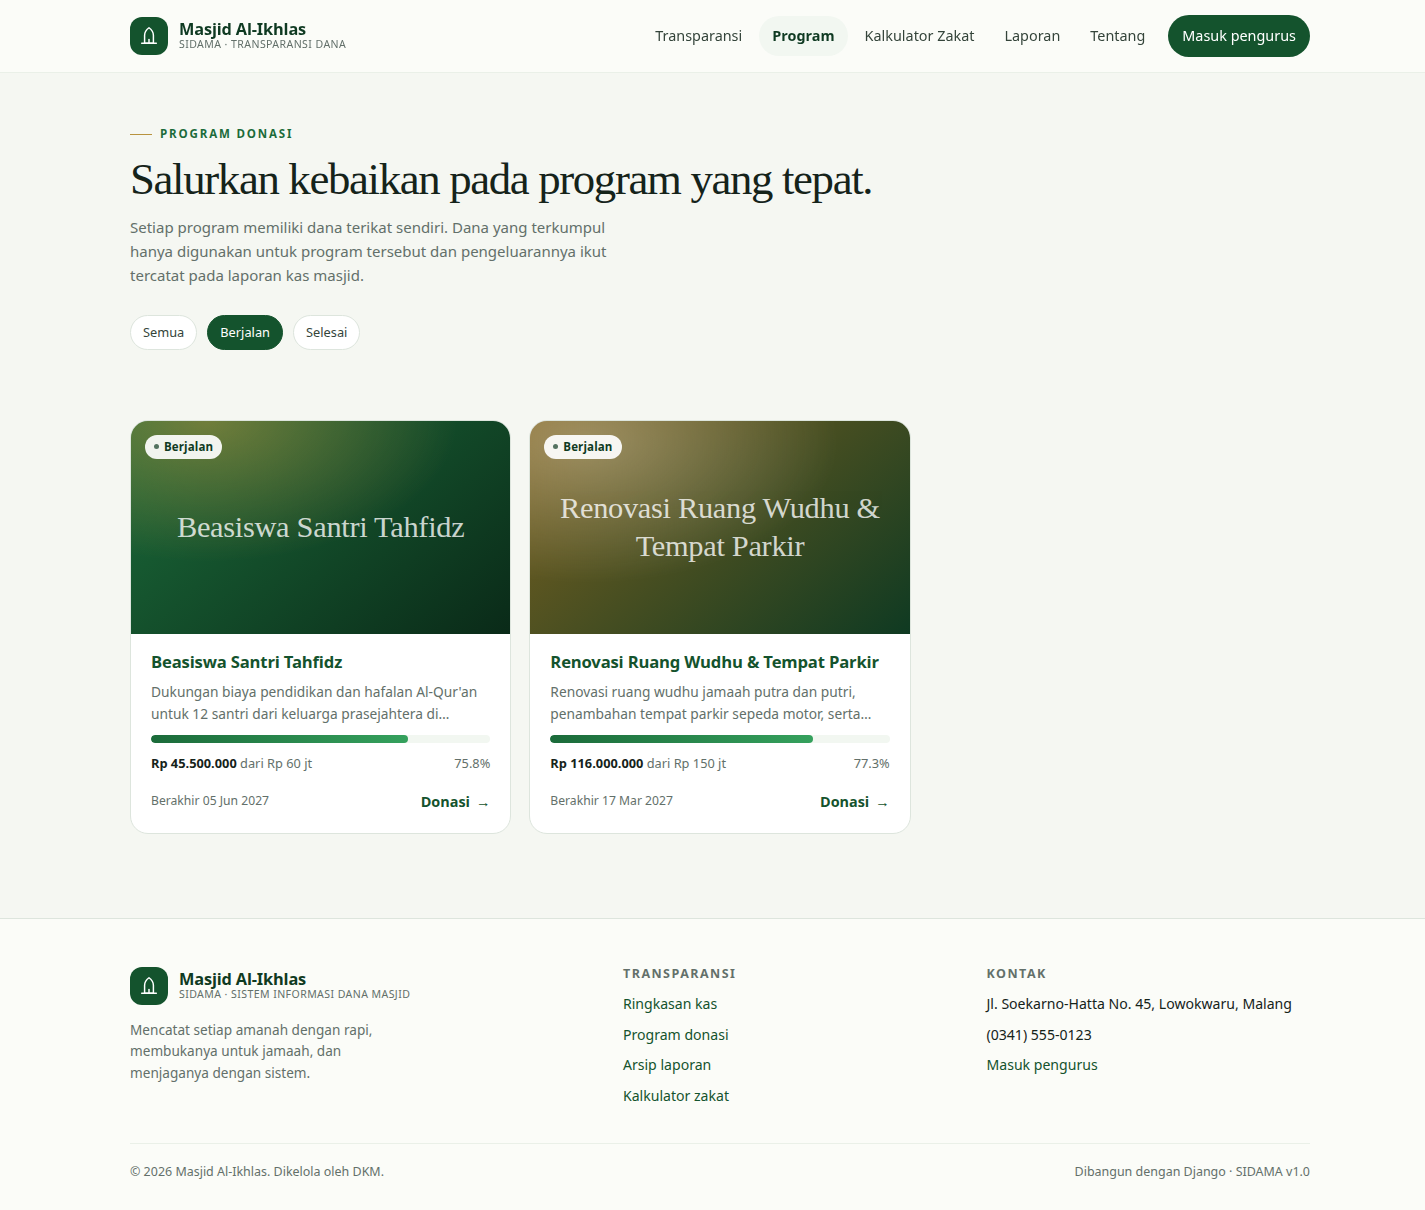
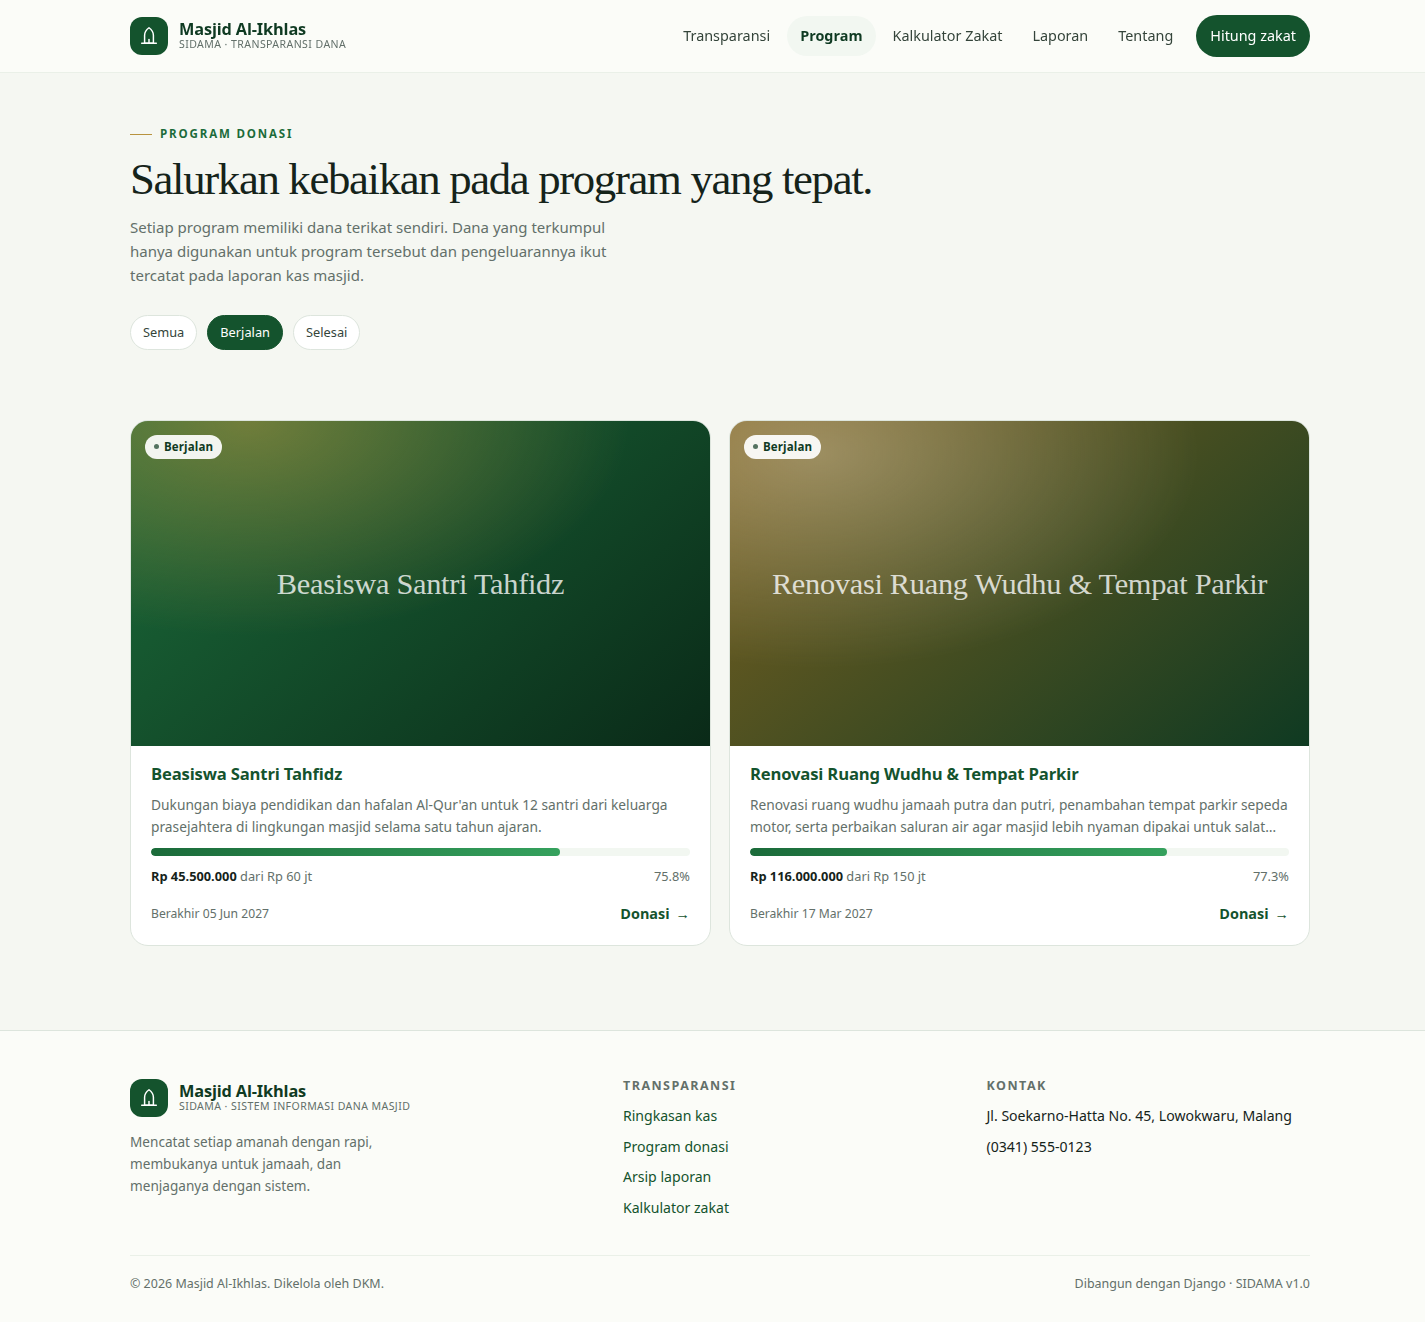
feat(deploy): public-only mode — dashboard, admin, dan API internal tidak dimount

diff --git a/templates/public/base_public.html b/templates/public/base_public.html
@@ -33,7 +33,9 @@
         <a href="{% url 'public:zakat' %}" {% if request.resolver_match.url_name == 'zakat' or request.resolver_match.url_name == 'zakat_calculator' %}class="is-active"{% endif %}>Kalkulator Zakat</a>
         <a href="{% url 'public:reports' %}" {% if request.resolver_match.url_name == 'reports' %}class="is-active"{% endif %}>Laporan</a>
         <a href="{% url 'public:about' %}" {% if request.resolver_match.url_name == 'about' %}class="is-active"{% endif %}>Tentang</a>
-        {% if user.is_authenticated %}
+        {% if public_only %}
+          <a class="btn btn-sm" href="{% url 'public:zakat' %}">Hitung zakat</a>
+        {% elif user.is_authenticated %}
           <a class="btn btn-sm" href="{% url 'core:dashboard' %}">Dashboard pengurus</a>
         {% else %}
           <a class="btn btn-sm" href="{% url 'accounts:login' %}">Masuk pengurus</a>
@@ -86,7 +88,9 @@
           <ul>
             <li>{{ mosque_address|default:"Alamat masjid" }}</li>
             <li>{{ mosque_phone|default:"Nomor telepon" }}</li>
-            <li><a href="{% url 'accounts:login' %}">Masuk pengurus</a></li>
+            {% if not public_only %}
+              <li><a href="{% url 'accounts:login' %}">Masuk pengurus</a></li>
+            {% endif %}
           </ul>
         </div>
       </div>

diff --git a/templates/public/program_detail.html b/templates/public/program_detail.html
@@ -142,7 +142,11 @@
             </label>
             <button class="btn btn-block" type="submit">Lanjutkan donasi</button>
             <p class="tiny muted text-center" style="margin:10px 0 0;">
-              Konfirmasi pembayaran dilakukan bendahara setelah dana masuk.
+              {% if public_only %}
+                Mode demo: donasi langsung tercatat agar progres program dapat dilihat.
+              {% else %}
+                Konfirmasi pembayaran dilakukan bendahara setelah dana masuk.
+              {% endif %}
             </p>
           </form>
         {% else %}

diff --git a/apps/api/urls.py b/apps/api/urls.py
@@ -1,30 +1,45 @@
-"""API routes."""
+"""API routes.
+
+In public-only mode only the anonymous endpoints are exposed: transparency
+summary, program listing/donation and the zakat calculator.
+"""
+from django.conf import settings
 from django.urls import include, path
 from drf_spectacular.views import SpectacularAPIView, SpectacularSwaggerView
 from rest_framework.routers import DefaultRouter
 
 from apps.api import views
 
-router = DefaultRouter()
-router.register("transactions", views.TransactionViewSet, basename="transaction")
-router.register("funds", views.FundViewSet, basename="fund")
-router.register("categories", views.CategoryViewSet, basename="category")
-router.register("programs", views.ProgramViewSet, basename="program")
-router.register("donations", views.DonationViewSet, basename="donation")
-router.register("zakat/receipts", views.ZakatReceiptViewSet, basename="zakat-receipt")
-router.register("zakat/muzakki", views.MuzakkiViewSet, basename="zakat-muzakki")
-router.register("zakat/mustahik", views.MustahikViewSet, basename="zakat-mustahik")
-router.register("zakat/distributions", views.ZakatDistributionViewSet,
-                basename="zakat-distribution")
-router.register("qurban/registrations", views.QurbanRegistrationViewSet,
-                basename="qurban-registration")
-router.register("qurban/distributions", views.MeatDistributionViewSet,
-                basename="qurban-distribution")
-router.register("assets", views.AssetViewSet, basename="asset")
-router.register("reports", views.ReportViewSet, basename="report")
-router.register("audit-logs", views.AuditLogViewSet, basename="audit-log")
+public_router = DefaultRouter()
+public_router.register("programs", views.ProgramViewSet, basename="program")
 
-urlpatterns = [
+internal_router = DefaultRouter()
+internal_router.register("transactions", views.TransactionViewSet, basename="transaction")
+internal_router.register("funds", views.FundViewSet, basename="fund")
+internal_router.register("categories", views.CategoryViewSet, basename="category")
+internal_router.register("programs", views.ProgramViewSet, basename="program")
+internal_router.register("donations", views.DonationViewSet, basename="donation")
+internal_router.register("zakat/receipts", views.ZakatReceiptViewSet, basename="zakat-receipt")
+internal_router.register("zakat/muzakki", views.MuzakkiViewSet, basename="zakat-muzakki")
+internal_router.register("zakat/mustahik", views.MustahikViewSet, basename="zakat-mustahik")
+internal_router.register("zakat/distributions", views.ZakatDistributionViewSet,
+                         basename="zakat-distribution")
+internal_router.register("qurban/registrations", views.QurbanRegistrationViewSet,
+                         basename="qurban-registration")
+internal_router.register("qurban/distributions", views.MeatDistributionViewSet,
+                         basename="qurban-distribution")
+internal_router.register("assets", views.AssetViewSet, basename="asset")
+internal_router.register("reports", views.ReportViewSet, basename="report")
+internal_router.register("audit-logs", views.AuditLogViewSet, basename="audit-log")
+
+public_urlpatterns = [
+    path("zakat/calculate/", views.ZakatCalculateView.as_view(),
+         name="api-zakat-calculate"),
+    path("public/summary/", views.PublicSummaryView.as_view(), name="api-public-summary"),
+    path("", include(public_router.urls)),
+]
+
+internal_urlpatterns = [
     path("auth/login/", views.LoginView.as_view(), name="api-login"),
     path("auth/me/", views.MeView.as_view(), name="api-me"),
     path("zakat/calculate/", views.ZakatCalculateView.as_view(),
@@ -34,5 +49,7 @@ urlpatterns = [
     path("schema/", SpectacularAPIView.as_view(), name="api-schema"),
     path("docs/", SpectacularSwaggerView.as_view(url_name="api-schema"),
          name="api-docs"),
-    path("", include(router.urls)),
+    path("", include(internal_router.urls)),
 ]
+
+urlpatterns = public_urlpatterns if settings.PUBLIC_ONLY else internal_urlpatterns

diff --git a/tests/test_public_api.py b/tests/test_public_api.py
@@ -3,11 +3,12 @@ from __future__ import annotations
 
 from decimal import Decimal
 
+from django.test import override_settings
 from django.urls import reverse
 from django.utils import timezone
 
 from apps.finance.models import Transaction
-from apps.programs.models import Program
+from apps.programs.models import Donation, Program
 from tests.base import BaseTestCase
 
 
@@ -117,3 +118,51 @@ class ApiTests(BaseTestCase):
         token = self.login_token("donatur")
         response = self.client.get("/api/transactions/", HTTP_AUTHORIZATION=f"Token {token}")
         self.assertEqual(response.status_code, 403)
+
+
+class PublicOnlyModeTests(BaseTestCase):
+    """SIDAMA_PUBLIC_ONLY hides the internal app from jamaah-facing pages."""
+
+    def setUp(self):
+        self.program = Program.objects.create(
+            title="Renovasi Serambi", description="Perluasan serambi masjid.",
+            target_amount=Decimal("10000000"), start_date=timezone.localdate(),
+            status=Program.Status.ACTIVE, is_published=True,
+        )
+
+    def test_login_link_hidden_in_public_only_mode(self):
+        with override_settings(PUBLIC_ONLY=True):
+            response = self.client.get(reverse("public:home"))
+        self.assertTrue(response.context["public_only"])
+        self.assertNotContains(response, "Masuk pengurus")
+        self.assertNotContains(response, "Dashboard pengurus")
+
+    def test_login_link_present_in_full_mode(self):
+        response = self.client.get(reverse("public:home"))
+        self.assertFalse(response.context["public_only"])
+        self.assertContains(response, "Masuk pengurus")
+
+    def test_demo_auto_confirm_records_donation_immediately(self):
+        with override_settings(DEMO_AUTO_CONFIRM=True):
+            response = self.client.post(
+                reverse("public:donate", args=[self.program.slug]),
+                {"donor_name": "Jamaah Uji", "amount": "250000",
+                 "method": Donation.Method.QRIS, "message": "Berkah"},
+            )
+        donation = Donation.objects.get(donor_name="Jamaah Uji")
+        self.assertRedirects(response, reverse("public:donation_status",
+                                               args=[donation.code]))
+        self.assertEqual(donation.status, Donation.Status.CONFIRMED)
+        self.assertIsNotNone(donation.transaction_id)
+        self.assertEqual(self.program.collected, Decimal("250000"))
+
+    def test_donation_stays_pending_without_demo_mode(self):
+        self.client.post(
+            reverse("public:donate", args=[self.program.slug]),
+            {"donor_name": "Jamaah Biasa", "amount": "150000",
+             "method": Donation.Method.TRANSFER},
+        )
+        donation = Donation.objects.get(donor_name="Jamaah Biasa")
+        self.assertEqual(donation.status, Donation.Status.PENDING)
+        self.assertIsNone(donation.transaction_id)
+

diff --git a/apps/public/views.py b/apps/public/views.py
@@ -2,6 +2,7 @@
 from __future__ import annotations
 
 from django import forms
+from django.conf import settings
 from django.contrib import messages
 from django.core.cache import cache
 from django.db.models import Sum
@@ -15,7 +16,7 @@ from apps.finance.models import Transaction
 from apps.finance.services import expense_by_category, fund_balances, month_totals, monthly_series
 from apps.programs.forms import PublicDonationForm
 from apps.programs.models import Donation, Program
-from apps.programs.services import create_donation
+from apps.programs.services import confirm_donation, create_donation
 from apps.reports.models import Report
 from apps.zakat.services import calculate_zakat, zakat_summary
 
@@ -155,10 +156,18 @@ def donate(request, slug):
         contact=form.cleaned_data["contact"],
         donor_user=request.user,
     )
-    messages.success(
-        request,
-        f"Donasi {donation.code} dicatat. Silakan selesaikan pembayaran sesuai instruksi.",
-    )
+    if getattr(settings, "DEMO_AUTO_CONFIRM", False):
+        confirm_donation(donation, None)
+        messages.success(
+            request,
+            f"Donasi {donation.code} diterima dan langsung tercatat pada program. "
+            "Terima kasih atas donasi Anda.",
+        )
+    else:
+        messages.success(
+            request,
+            f"Donasi {donation.code} dicatat. Silakan selesaikan pembayaran sesuai instruksi.",
+        )
     return redirect("public:donation_status", code=donation.code)
 
 

diff --git a/config/urls.py b/config/urls.py
@@ -1,4 +1,9 @@
-"""Root URL configuration."""
+"""Root URL configuration.
+
+When ``SIDAMA_PUBLIC_ONLY=1`` only the jamaah-facing transparency site is mounted:
+the internal dashboard, Django admin and authenticated API routes are not
+registered at all, so they return 404 instead of a login wall.
+"""
 from django.conf import settings
 from django.conf.urls.static import static
 from django.contrib import admin
@@ -6,9 +11,15 @@ from django.urls import include, path
 
 from apps.core.views import healthcheck
 
-urlpatterns = [
-    path("admin/", admin.site.urls),
+public_patterns = [
     path("healthz/", healthcheck, name="healthcheck"),
+    path("api/", include("apps.api.urls")),
+    path("", include("apps.public.urls")),
+]
+
+internal_patterns = [
+    path("healthz/", healthcheck, name="healthcheck"),
+    path("admin/", admin.site.urls),
     path("api/", include("apps.api.urls")),
     path("", include("apps.accounts.urls")),
     path("", include("apps.core.urls")),
@@ -23,6 +34,8 @@ urlpatterns = [
     path("", include("apps.forecasting.urls")),
     path("", include("apps.public.urls")),
 ]
+
+urlpatterns = public_patterns if settings.PUBLIC_ONLY else internal_patterns
 
 if settings.DEBUG:
     urlpatterns += static(settings.MEDIA_URL, document_root=settings.MEDIA_ROOT)

diff --git a/apps/core/context_processors.py b/apps/core/context_processors.py
@@ -5,12 +5,17 @@ from apps.core.models import Setting
 
 
 def sidama_context(request):
+    from django.conf import settings
+
     context = {
         "mosque_name": Setting.get("mosque_name"),
         "mosque_city": Setting.get("mosque_city"),
         "mosque_address": Setting.get("mosque_address"),
         "mosque_phone": Setting.get("mosque_phone"),
+        "public_only": getattr(settings, "PUBLIC_ONLY", False),
     }
+    if context["public_only"]:
+        return context
     user = getattr(request, "user", None)
     if user is not None and user.is_authenticated:
         from apps.finance.services import pending_count

diff --git a/config/settings.py b/config/settings.py
@@ -23,6 +23,14 @@ def env_list(key: str, default: str = "") -> list[str]:
 
 DEBUG = env_bool("DJANGO_DEBUG", True)
 
+# Public-only deployment: expose the jamaah-facing transparency site only.
+# Internal dashboard, admin and authenticated API routes are not mounted at all.
+PUBLIC_ONLY = env_bool("SIDAMA_PUBLIC_ONLY", False)
+
+# In the public demo nobody can log in to confirm donations, so confirm them
+# on submit. Set SIDAMA_DEMO_AUTO_CONFIRM=0 for a real masjid deployment.
+DEMO_AUTO_CONFIRM = env_bool("SIDAMA_DEMO_AUTO_CONFIRM", PUBLIC_ONLY)
+
 SECRET_KEY = os.getenv("DJANGO_SECRET_KEY", "")
 if not SECRET_KEY:
     if DEBUG:

diff --git a/apps/programs/services.py b/apps/programs/services.py
@@ -47,7 +47,7 @@ def confirm_donation(donation: Donation, user) -> Donation:
         category=category,
         amount=donation.amount,
         description=f"Donasi {donation.code} — {program.title}"[:255],
-        pic=user.get_full_name() or user.username,
+        pic=(user.get_full_name() or user.username) if user else "Sistem (konfirmasi otomatis)",
         status=Transaction.Status.APPROVED,
         program=program,
         created_by=user,

diff --git a/README.md b/README.md
@@ -284,7 +284,8 @@ Repo ini sudah siap dideploy tanpa konfigurasi tambahan. Tiga jalur, pilih satu:
    (atau login Render dengan GitHub, lalu **New → Blueprint** dan pilih repo `sidama`).
 2. Render membaca [`render.yaml`](render.yaml): membuat web service + PostgreSQL,
    menjalankan `build.sh` (migrate → collectstatic → seed data demo), lalu
-   `gunicorn config.wsgi`.
+   `gunicorn config.wsgi`. Blueprint sudah menyetel `SIDAMA_PUBLIC_ONLY=1`,
+   jadi yang tayang hanya situs transparansi jamaah.
 3. Setelah selesai, aplikasi hidup di `https://sidama-xxxx.onrender.com`.
 
 Catatan tier gratis Render: instance tidur setelah ~15 menit tanpa trafik
@@ -305,6 +306,35 @@ fly secrets set DJANGO_SECRET_KEY="$(openssl rand -base64 48)"
 fly deploy
 ```
 
+### Mode publik saja (tanpa dashboard internal)
+
+Untuk demo portofolio, dashboard pengurus tidak perlu ikut tayang. Set satu variabel:
+
+```
+SIDAMA_PUBLIC_ONLY=1
+```
+
+Efeknya:
+
+- Hanya halaman jamaah yang didaftarkan: beranda transparansi, daftar & detail program,
+  formulir donasi, status donasi, kalkulator zakat, arsip laporan, tentang, `/healthz/`.
+- `/login/`, `/app/...`, `/admin/`, `/profil/` dan endpoint API terautentikasi
+  **tidak dimount sama sekali** → 404, bukan halaman login.
+- Tombol “Masuk pengurus” di header dan footer otomatis hilang.
+- `SIDAMA_DEMO_AUTO_CONFIRM=1` (default mengikuti mode publik) membuat donasi langsung
+  terkonfirmasi saat dikirim, sehingga progres program dan “Donasi terbaru” bergerak —
+  tanpa perlu akun bendahara.
+
+Untuk masjid sungguhan, matikan keduanya (`SIDAMA_PUBLIC_ONLY=0`) agar dashboard dan
+alur persetujuan aktif kembali.
+
+Verifikasi lokal:
+
+```bash
+SIDAMA_PUBLIC_ONLY=1 DJANGO_DEBUG=0 DJANGO_SECRET_KEY=x \
+  .venv/bin/gunicorn config.wsgi:application --bind 127.0.0.1:8021
+```
+
 ### Variabel lingkungan yang dipakai
 
 | Variabel | Wajib | Keterangan |
@@ -313,6 +343,8 @@ fly deploy
 | `DJANGO_DEBUG` | – | `0` untuk produksi |
 | `DJANGO_ALLOWED_HOSTS` | – | Host tambahan, dipisah koma; host platform terdeteksi otomatis |
 | `DATABASE_URL` | – | Diisi otomatis oleh Render/Railway/Heroku |
+| `SIDAMA_PUBLIC_ONLY` | – | `1` = hanya halaman publik, dashboard & admin tidak dimount |
+| `SIDAMA_DEMO_AUTO_CONFIRM` | – | `1` = donasi publik langsung terkonfirmasi (mode demo) |
 | `CELERY_BROKER_URL` | – | Isi `disabled` bila tanpa Redis → tugas jalan inline |
 | `DJANGO_SECURE_SSL_REDIRECT` | – | `1` di produksi (default) |
 
